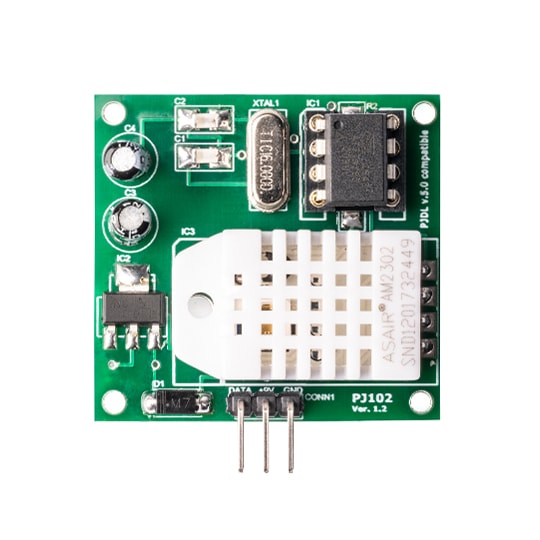
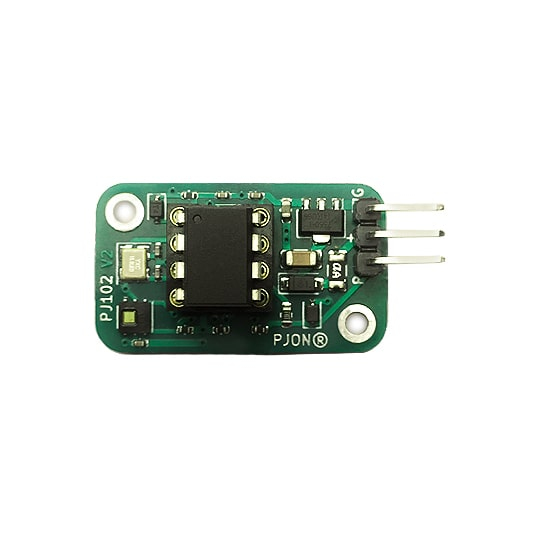
PJ102 v2.0 - HDC1080 sensor

diff --git a/README.md b/README.md
@@ -1,8 +1,8 @@
 
 ## PJ102
-<img src="images/PJ102-front.jpg" style="display: inline-block;" width="400"><img src="images/PJ102-back.jpg" style="display: inline-block;" width="400">
+<img src="images/PJ102-front.jpg" style="display: inline-block; margin: 0 auto;" width="500">
 
-The PJ102 module is a 36.1x34mm open-source, stand-alone, programmable temperature and humidity sensor based on DHT22 and ATtiny85 with [PJON](https://github.com/gioblu/PJON/) over [PJDL](https://github.com/gioblu/PJON/blob/master/src/strategies/SoftwareBitBang/specification) networking. It needs only 3 pins (PJDL, 5v, GND) to operate transmitting samples and receiving incoming configuration on the same PJON IO pin. PJ102 consumes around 0.162w when supplied with 9v.
+The PJ102 module is a 29x16mm open-source, stand-alone, programmable temperature and humidity sensor based on HDC1080 and ATtiny85 with [PJON](https://github.com/gioblu/PJON/) over [PJDL](https://github.com/gioblu/PJON/blob/master/src/strategies/SoftwareBitBang/specification) networking. It needs only 3 pins (PJDL, 5v, GND) to operate transmitting samples and receiving incoming configuration on the same PJON IO pin. PJ102 consumes around 0.162w when supplied with 9v.
 
 ```cpp  
  _______   _______   _______
@@ -23,12 +23,13 @@ A basic example program is proposed to let users easily configure the PJ102s usi
 | Command                          | Parameter     | Effect                                                            |
 | -------------------------------- | --------------| ----------------------------------------------------------------- |
 |  `?` Info                        | none          | Transmits module name and software version                        |
+|  `C` Calibration                 | `int8_t`      | Sets calibration value (expressed in tenth of degrees Celsius)    |
 |  `E` Execute                     | none          | Reads a new sample from the DTH and transmits it to the recipient |
 |  `G` Get                         | none          | Transmits the latest sample to the recipient                      |
 |  `S` Save                        | none          | Reads a new sample and saves it in memory                         |
 |  `I` Device id                   | `uint8_t`     | Sets device id                                                    |
 |  `R` Recipient device id         | `uint8_t`     | Sets recipient id                                                 |
-|  `T` Transmission interval       | `uint16_t`    | Sets transmission interval                                        |
+|  `T` Sleep then transmit         | `uint16_t`    | Sleep for n milliseconds and then transmit reading                |
 |  `Q` Configuration block         | none          | Blocks incoming configuration                                     |
 |  `X` Configuration reset         | none          | Sets configuration to default                                     |
 
@@ -62,7 +63,7 @@ attiny.menu.clock.external16BOD.build.f_cpu=16000000L
 The chip should be good to go.
 
 ### Schematic
-The circuit is quite simple and can be tested quickly on a breadboard. It is composed by few components such as the MCU, its clock, the voltage regulator, a couple of resistors, capacitors and obviously the DHT22.
+The circuit is quite simple and can be tested quickly on a breadboard. It is composed by few components such as the MCU, its clock, the voltage regulator, a couple of resistors, capacitors and obviously the HDC1080.
 
 ![PJ102 schematic](schematics/PJ102.pdf)
 
